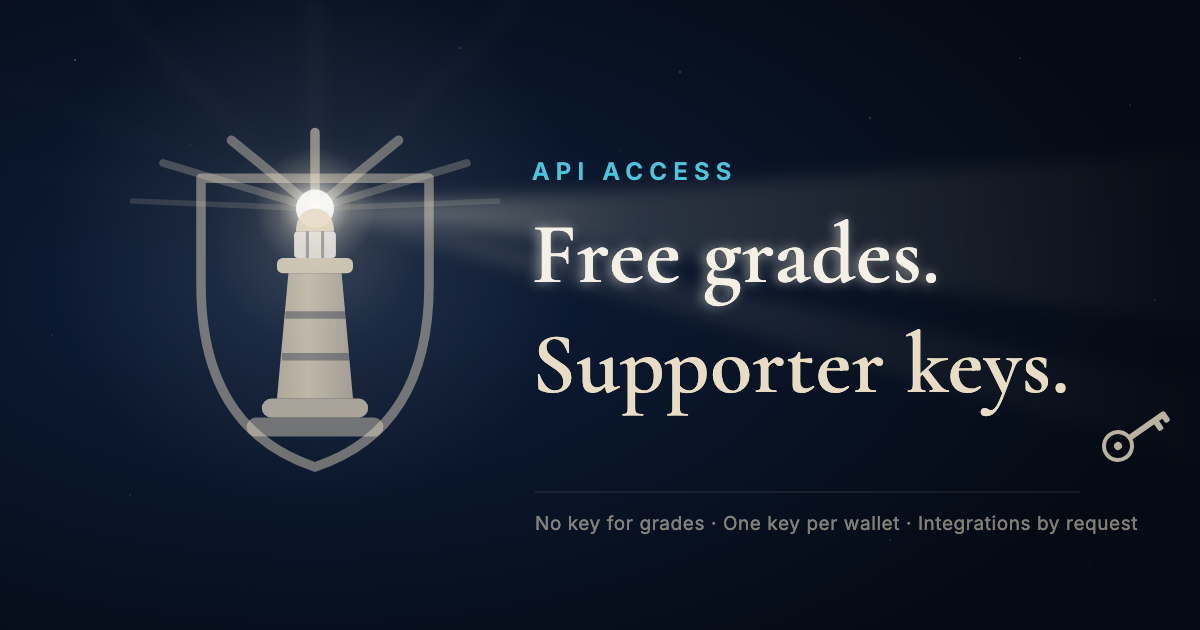
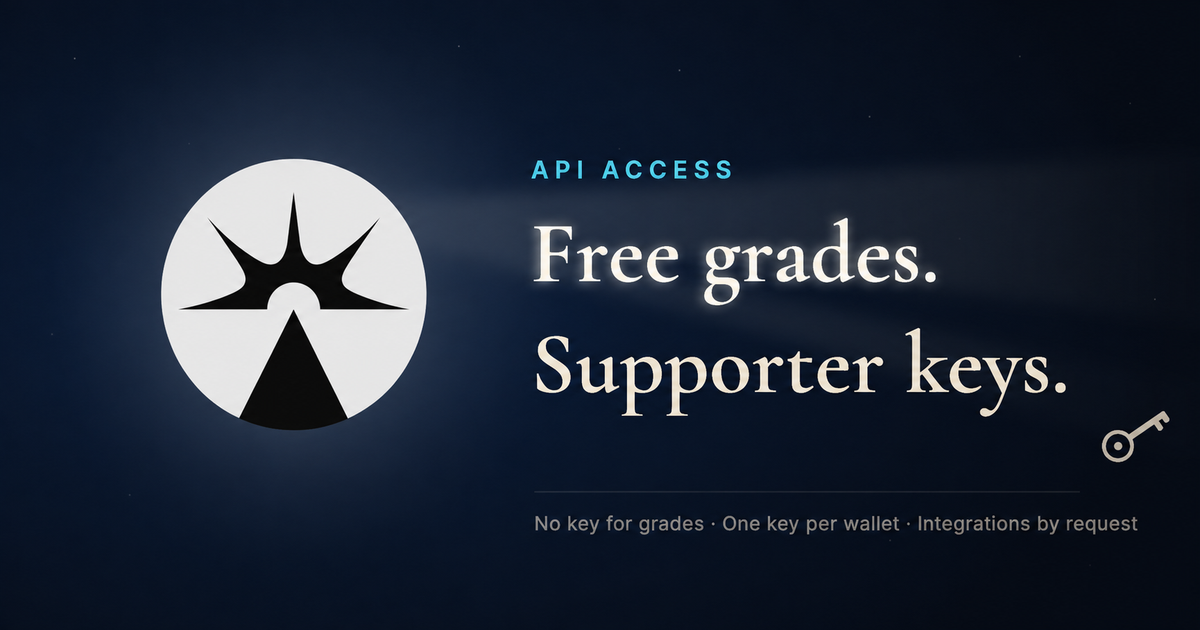
content(blog): align API launch terms and current Pharos mark
Explain claim-time A/B stablecoin eligibility, token retention, and the public API boundary accurately. Replace the cover's legacy lighthouse with the menu-bar mark and remove unsupported cost comparisons.

diff --git a/src/data/blog/index.ts b/src/data/blog/index.ts
@@ -31,11 +31,11 @@ export const BLOG_POSTS: readonly BlogPost[] = [
     slug: "api-access-free-grades-supporter-keys",
     title: "API Access: Free Grades, Supporter Keys",
     description:
-      "Safety Score grades are free without a key, self-serve keys are closed, and donors get a supporter key with the next release. What the API covers and why.",
+      "Free Safety Score grades, restricted API access, and supporter keys for wallets donating more than $10 in stablecoins graded A or B at claim time.",
     datePublished: "2026-09-07",
     coverImage: "/blog/api-access-free-grades-supporter-keys-cover.png",
     coverAlt:
-      "The Pharos lighthouse casting two beams across the headline “Free grades. Supporter keys.” beneath the label “API Access”, with a key at the end of the second beam.",
+      "The current circular Pharos mark beside the headline “Free grades. Supporter keys.” beneath the label “API Access”, with a key icon on a dark navy background.",
   },
   {
     slug: "safety-score-v9",

diff --git a/src/data/blog/posts/api-access-free-grades-supporter-keys.md b/src/data/blog/posts/api-access-free-grades-supporter-keys.md
@@ -1,30 +1,30 @@
-Pharos's API access model changed. Safety Score grades are now free to read without a key. Self-serve key issuance is closed. And a supporter key for anyone who has donated to Pharos is built and ships with the next release. Here is what each change means and why the model is shaped this way.
+This release changes Pharos's API access model: free Safety Score grades without a key, closed self-serve issuance, and supporter keys for eligible stablecoin donors. Here is what each change means and why the model is shaped this way.
 
 ## Free grades, no key
 
-`GET https://api.pharos.watch/api/safety-grades` needs no API key. It returns one Safety Score and grade per tracked stablecoin from the same V9 publication that powers the report cards, plus the methodology version, timestamps, and publication status. Coin IDs use the `ticker-issuer` form, so USDC is `usdc-circle`. When a publication is held, the response says so and is served uncached.
+`GET https://api.pharos.watch/api/safety-grades` needs no API key. It returns the Safety Score and grade for each stablecoin in the same accepted V9 publication that powers the report cards, plus the methodology version, timestamps, and publication status. Coin IDs use the `ticker-issuer` form, so USDC is `usdc-circle`. When a publication is held, the response says so and is served uncached. If no usable publication is available, it returns `503` instead of inventing or falling back to older-model scores.
 
 It is meant for servers, scripts, bots, and spreadsheets. Browser widgets on other sites are not supported yet, because the endpoint does not send CORS headers to third-party origins.
 
 ## Self-serve keys are closed
 
-Anyone could request a key by verifying an email address: 30 requests per minute, valid for 60 days. That lane is closed. Keys already issued keep working until they expire.
+Anyone could request a key by verifying an email address: 30 requests per minute, valid for 60 days. That lane is closed. Keys already issued keep working until they expire, and already-sent verification links can still complete while valid.
 
 Keyed access to the full API is now by request through the [feedback form](/feedback/), reviewed by hand. Projects that deliver a freely available, non-profit service on Pharos data get a standard key at no cost; FrankenCoin and Octav are the current examples. The test is the service, not the entity: it has to be free to its users.
 
-## Next release: the supporter key
+## The supporter key
 
-Any wallet that has donated at least $10 in total to Pharos, as recorded on the public [funding ledger](/funding/), can claim one API key by signing a message on [/api/](/api/). No email, no account, no payment processor. The key runs at 10 requests per minute and has no scheduled expiry.
+An externally-owned EVM wallet that has donated more than $10 in stablecoins to Pharos, valued at receipt and recorded on the public [funding ledger](/funding/), can claim one API key by signing a message on [/api/](/api/). Only stablecoins graded A or B, including plus and minus grades, at the time you claim count toward the total. Exactly $10, ETH and other non-stablecoin donations, lower or missing grades, and pooled payouts do not qualify. No email, no account, no payment processor. The key runs at 10 requests per minute and has no scheduled expiry.
 
 How it works, in practice:
 
 - The wallet signs a Sign-In-With-Ethereum message for pharos.watch. Sign it only on pharos.watch; if the wallet warns that the site does not match, reject it.
 - The key is shown once. One key per wallet; a lost key is rotated by hand through the feedback form, never by signing again.
 - Only wallets that can sign qualify. Donations sent from an exchange or a contract wallet cannot claim.
-- The ledger is reconciled weekly and read at release time, so a new donation becomes claimable after the next reconciliation and release. Donations made today already count toward the threshold.
-- Pharos stores the wallet address, the key prefix, the claim time, and the usage timestamps every key carries. Signatures and tokens are never stored or logged.
+- The ledger is reconciled weekly and read at release time, so a new donation becomes claimable after the next reconciliation and release. Values use receipt-time USD, while grades are checked at claim time, not donation time. Later grade changes do not affect an issued key. Claims pause if the current accepted Safety Score publication is unavailable or held.
+- Pharos stores the wallet address, the key prefix, the claim time, and the usage timestamps every key carries. Signatures and plaintext tokens are never persistently stored or logged; a keyed hash verifies the token. The unsaved token stays in browser memory so internal navigation does not lose it. Deactivation stops access but does not delete the records; the [privacy page](/privacy/) explains removal requests and the retained one-claim record.
 
-It is a thank-you perk, and the terms match: revocable, no SLA, no refunds. The feature is deployed switched off and opens once I have claimed a key with my own wallet on the live site.
+It is a thank-you perk, and the terms match: revocable, no SLA, no refunds. This release enables claims. The [API page](/api/) shows whether claims are currently open.
 
 ## What the keyed API covers
 
@@ -32,10 +32,12 @@ The full API is the data the site runs on, read-only: the stablecoin catalogue a
 
 Typical uses: a bot that polls active depeg events, a risk dashboard that joins liquidity, reserves, and the report card for a treasury's holdings, or a notebook that pulls a year of supply and score history.
 
+This restriction applies to the integration API, not to viewing the public website. Health checks, share images, feedback, and separately authenticated utility endpoints retain their documented access rules.
+
 ## Why this shape
 
-Pharos is independent and [donation-funded](/funding/). Grades have the widest audience and the smallest per-request cost, so they are free with no gate. Supporters get a durable key for having paid part of the bill. Heavier integrations go through a hand review, because one busy consumer of the full API costs more than the whole free lane. A paid tier for high-volume or commercial use may come later; no pricing or date is promised.
+Pharos is independent and [donation-funded](/funding/). Grades are a small, cacheable response with a wide audience, so they are free with no key requirement. Supporters get a durable key for having paid part of the bill. Heavier integrations go through a hand review so their usage can be matched to available capacity. A paid tier for high-volume or commercial use may come later; no pricing or date is promised.
 
-If you want a key today, the feedback form is the path. If you have donated, watch [/api/](/api/) for the claim with the next release. See you at the lighthouse. 🗼
+For a manually reviewed key, use the feedback form. Eligible stablecoin donors can use [/api/](/api/) to claim a supporter key. See you at the lighthouse. 🗼
 
 	/- TokenBrice
